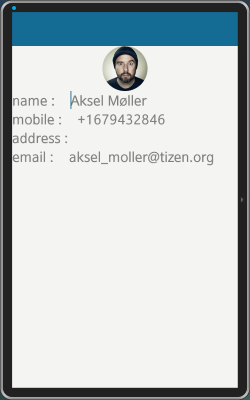
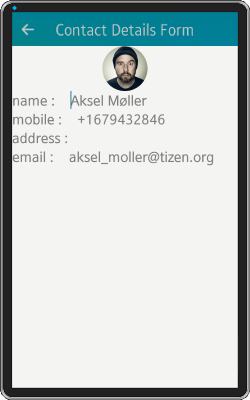
[Native][UI Practice] Update Basic Application Layout.
Update screenshots based on the current naviframe theme.
Add explanation for creating a back button of naviframe automatically.
Correct explanation for naviframe.

diff --git a/org.tizen.ui.practices/html/native/efl/form_tutorial_n.htm b/org.tizen.ui.practices/html/native/efl/form_tutorial_n.htm
@@ -73,19 +73,21 @@ main(int argc, char **argv)
 
  <h2 id="naviframe" name="naviframe">Creating a Naviframe for Switching Views</h2>
 
-<p>Use a naviframe in this application to switch between different views. The first displayed view is the contact list. When an item is selected in this list, information on the contact is displayed in a contact details form. Both the list and form views are opened in a naviframe, which handles the animations between the views. It also creates a back button in the top bar, and when the button is clicked, launches the back animation, deletes the form view, and shows the contact list again.</p>
+<p>Use a naviframe in this application to switch between different views. The first displayed view is the contact list. When an item is selected in this list, information on the contact is displayed in a contact details form. Both the list and form views are opened in a naviframe, which handles the transition between the views. It also creates a back button on the title area, and when the button is clicked, launches the transition, deletes the form view, and shows the contact list again.</p>
 
 	<p class="figure">Figure: Views (list and form)</p> 
     <p align="center"><img alt="Form tutorial: list" src="../../images/screenshot_2.png" /> <img alt="Form tutorial: form" src="../../images/screenshot_1.png" /></p>
 
+<p>To create a back button on the title area automatically, call the elm_naviframe_prev_btn_auto_pushed_set() with EINA_TRUE (second parameter). This function decides whether creating a back button automatically or not in the views pushed later.</p>
 <p>Since the naviframe is the main layout of the window, it takes all the available space. To configure the naviframe size, use the <span style="font-family: Courier New,Courier,monospace">elm_win_resize_object_add()</span> function to add the naviframe object (second parameter) to the main window (first parameter). To ensure that the naviframe covers the entire window area, call the <span style="font-family: Courier New,Courier,monospace">evas_object_resize_hint_weight_set()</span> function on the naviframe object to force the naviframe to fill its parent (the main window). The naviframe object expands in both X and Y directions.</p>
 <p>In the end, show the naviframe object on the screen.</p>
 <pre class="prettyprint">
 // Create the naviframe
-nav = elm_naviframe_add(win);
-evas_object_size_hint_weight_set(nav, EVAS_HINT_EXPAND, EVAS_HINT_EXPAND);
-elm_win_resize_object_add(win, nav);
-evas_object_show(nav);
+naviframe = elm_naviframe_add(win);
+elm_naviframe_prev_btn_auto_pushed_set(naviframe, EINA_TRUE);
+evas_object_size_hint_weight_set(naviframe, EVAS_HINT_EXPAND, EVAS_HINT_EXPAND);
+elm_win_resize_object_add(win, naviframe);
+evas_object_show(naviframe);
 </pre> 
 
  <h2 id="list" name="list">Creating a Contact List</h2>
@@ -169,7 +171,7 @@ for (i = 0; i &lt; EINA_C_ARRAY_LENGTH(contacts); i++)
 list = _create_contact_list(win);
 
 // Push the list on top of the naviframe
-elm_naviframe_item_push(nav, NULL, NULL, NULL, list, NULL);
+elm_naviframe_item_push(naviframe, "Contact List", NULL, NULL, list, NULL);
 </pre>
 </li>
 <li>
